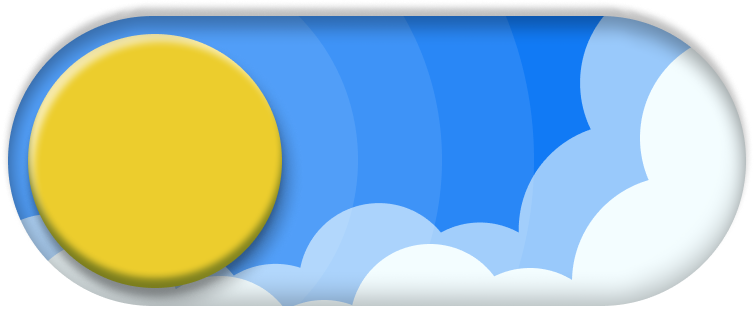
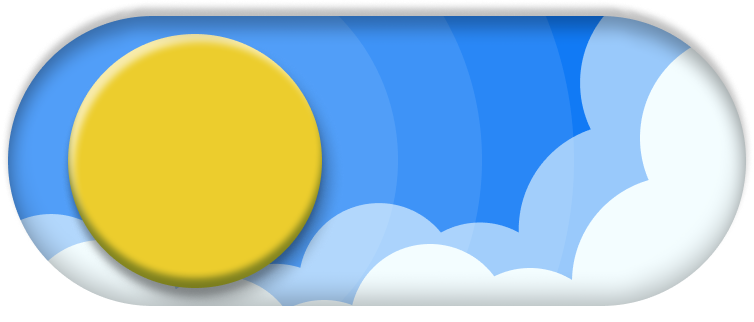
toggle updated

Changed region(s): [[0.0305, 0.0932, 0.4576, 0.9317]]

diff --git a/juno_web/pages/index.js b/juno_web/pages/index.js
@@ -68,7 +68,7 @@ const Home = () => {
                 {darkMode ? (
                   <img src="/light1.png" style={{ width: '50px' }} alt="Sun" />
                 ) : (
-                  <img src="/dark2.png" style={{ width: '50px' }} alt="Moon" />
+                  <img src="/dark1.png" style={{ width: '50px' }} alt="Moon" />
                 )}
               </button>
             ) : <button className={styles.darkModeButton} onClick={toggleDarkMode}   style={{
@@ -82,7 +82,7 @@ const Home = () => {
                 {darkMode ? (
                   <img src="/light1.png" style={{ width: '50px' }} alt="Sun" />
                 ) : (
-                  <img src="/dark2.png" style={{ width: '50px' }} alt="Moon" />
+                  <img src="/dark1.png" style={{ width: '50px' }} alt="Moon" />
                 )}
               </button>}
             
